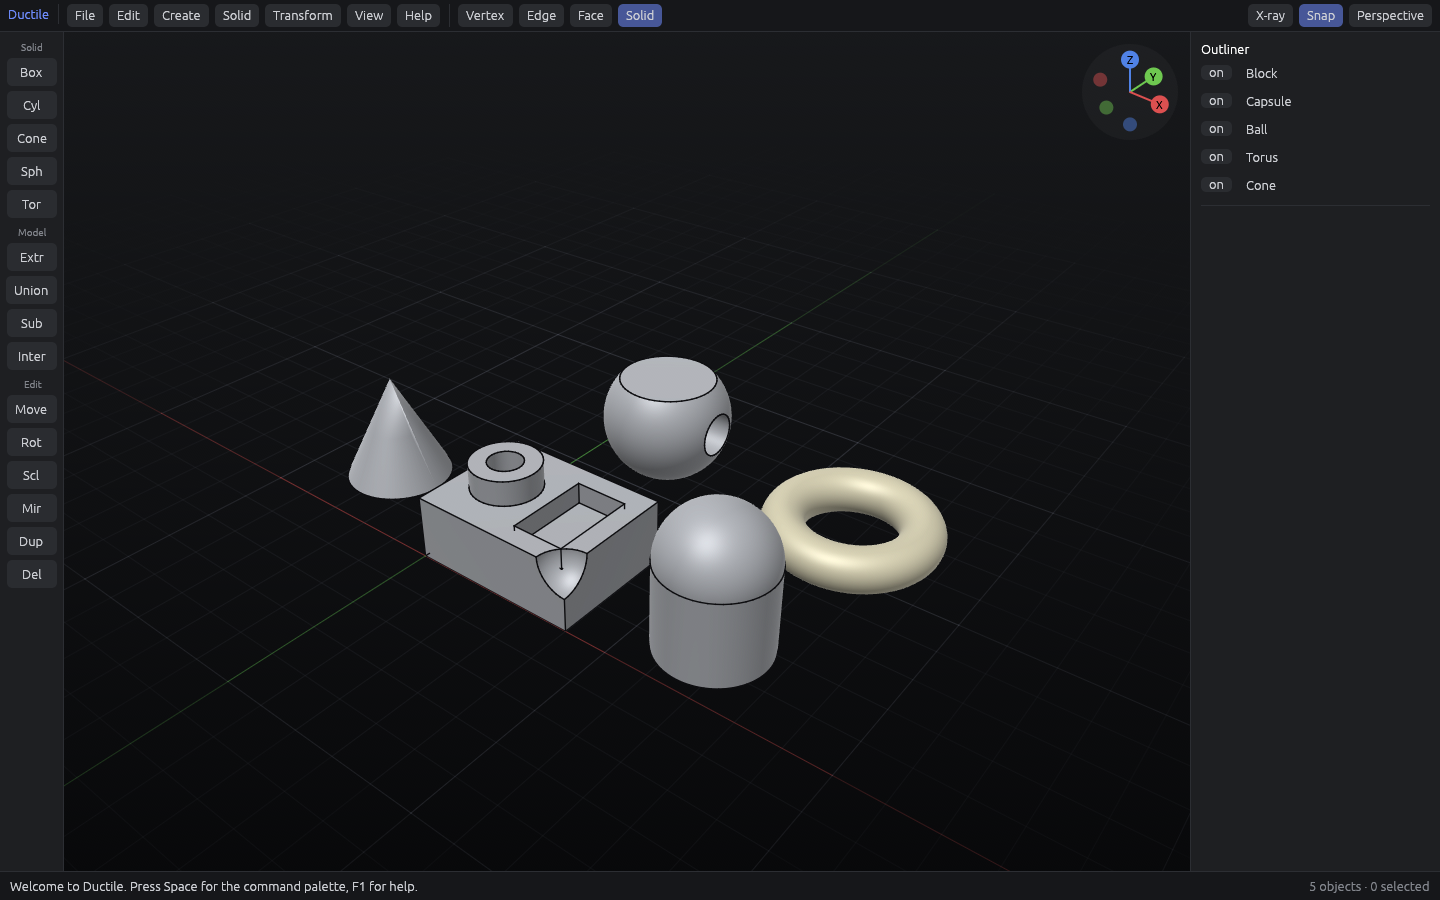
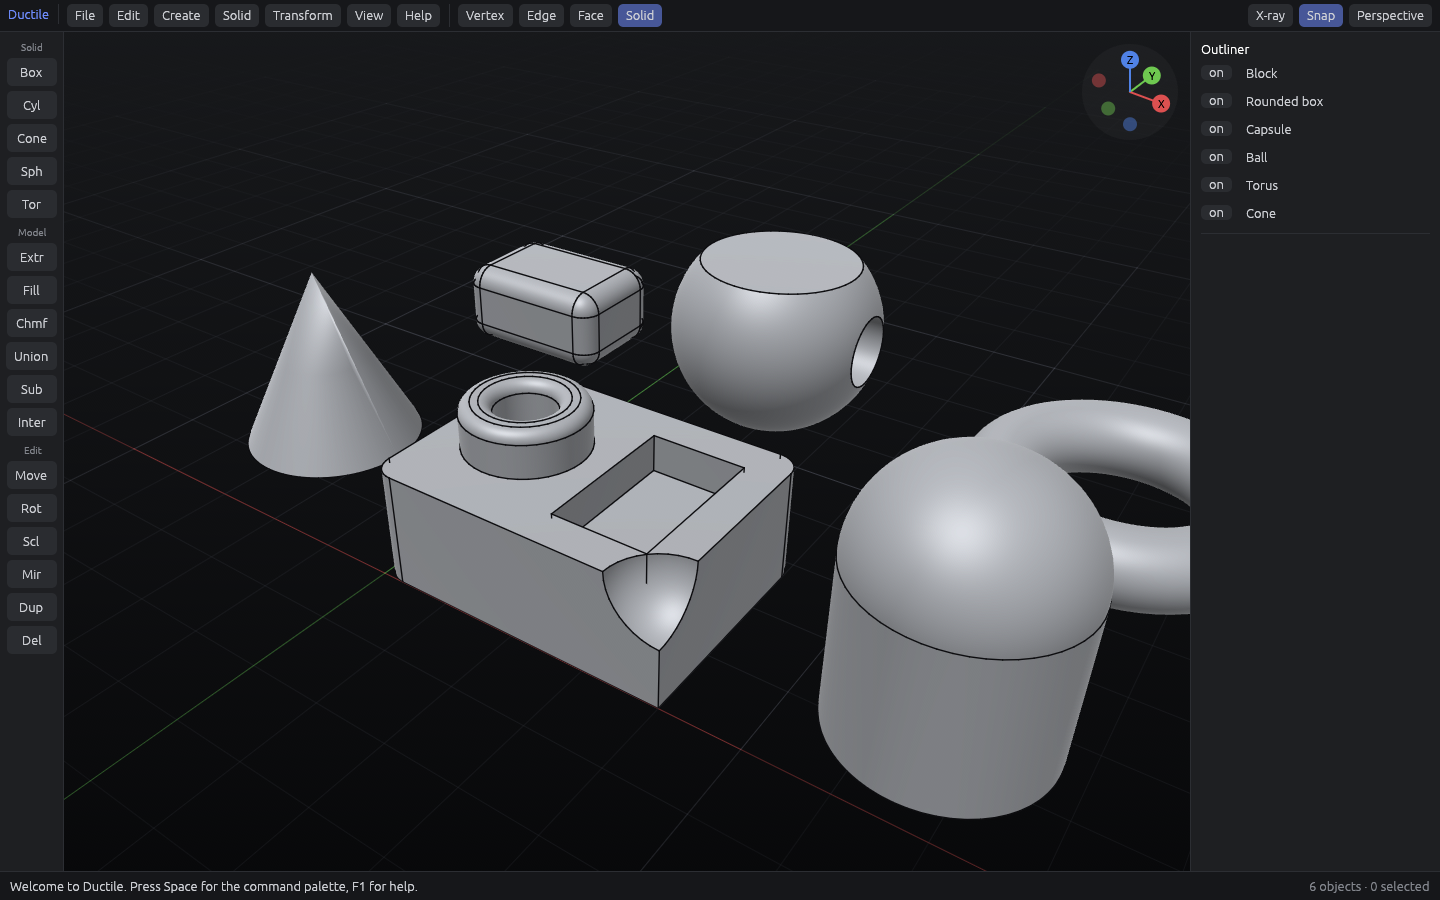
App: Fillet and Chamfer tools with live preview, filleted demo parts
Shift+F / Shift+K blend the selected edges; the radius is dragged along
the edge bisector or typed, with a chamfer toggle in the tool panel.

Claude-Session: https://claude.ai/code/session_01MWf4zCj6LESfmkzRN8DJjo

diff --git a/crates/ductile-app/src/commands.rs b/crates/ductile-app/src/commands.rs
@@ -3,7 +3,7 @@
 
 use crate::app::DuctileApp;
 use crate::document::{Document, Pick, SelectMode};
-use crate::tools::{BoxTool, ExtrudeTool, RoundKind, RoundTool, TransformKind, TransformTool};
+use crate::tools::{BoxTool, ExtrudeTool, FilletTool, RoundKind, RoundTool, TransformKind, TransformTool};
 use ductile_brep::ops::boolean::{boolean, BoolError, BoolOp};
 use ductile_brep::primitives::*;
 use ductile_geom::{DMat4, DVec3, Frame};
@@ -35,6 +35,8 @@ pub enum Command {
     Sphere,
     Torus,
     Extrude,
+    Fillet,
+    Chamfer,
     Union,
     Subtract,
     Intersect,
@@ -84,6 +86,8 @@ impl Command {
         Command::Sphere,
         Command::Torus,
         Command::Extrude,
+        Command::Fillet,
+        Command::Chamfer,
         Command::Union,
         Command::Subtract,
         Command::Intersect,
@@ -134,6 +138,8 @@ impl Command {
             Sphere => "Sphere",
             Torus => "Torus",
             Extrude => "Extrude / push-pull face",
+            Fillet => "Fillet edges",
+            Chamfer => "Chamfer edges",
             Union => "Boolean union",
             Subtract => "Boolean subtract",
             Intersect => "Boolean intersect",
@@ -183,6 +189,8 @@ impl Command {
             Sphere => "Shift+S",
             Torus => "Shift+T",
             Extrude => "E",
+            Fillet => "Shift+F",
+            Chamfer => "Shift+K",
             Union => "Shift+U",
             Subtract => "Shift+D",
             Intersect => "Shift+I",
@@ -230,6 +238,8 @@ pub fn shortcut(key: Key, m: Modifiers) -> Option<Command> {
         (Key::S, false, true, false) => Sphere,
         (Key::T, false, true, false) => Torus,
         (Key::E, false, false, false) => Extrude,
+        (Key::F, false, true, false) => Fillet,
+        (Key::K, false, true, false) => Chamfer,
         (Key::U, false, true, false) => Union,
         (Key::D, false, true, false) => Subtract,
         (Key::I, false, true, false) => Intersect,
@@ -369,6 +379,10 @@ pub fn run(app: &mut DuctileApp, cmd: Command) {
         Extrude => match ExtrudeTool::new(&app.doc) {
             Some(t) => app.start_tool(std::boxed::Box::new(t)),
             None => app.status = "Select a planar face to extrude (face mode: 3)".into(),
+        },
+        Fillet | Chamfer => match FilletTool::new(&app.doc, cmd == Chamfer) {
+            Some(t) => app.start_tool(std::boxed::Box::new(t)),
+            None => app.status = "Select edges to blend (edge mode: 2)".into(),
         },
         Union => boolean_selected(app, BoolOp::Union),
         Subtract => boolean_selected(app, BoolOp::Difference),
@@ -529,6 +543,7 @@ fn export_mesh(doc: &Document, path: &std::path::Path, stl: bool) -> Result<(), 
 
 /// A small scene used for screenshots and first launch demos.
 pub fn demo_scene(doc: &mut Document) {
+    use ductile_brep::ops::fillet::{blend_edges, Blend};
     let at = |x: f64, y: f64, z: f64| Frame { origin: DVec3::new(x, y, z), ..Frame::WORLD };
     let op = |a: ductile_brep::Body, b: ductile_brep::Body, o: BoolOp| boolean(&a, &b, o).unwrap_or(a);
     // A machined block: boss, through hole, flush pocket and a spherical notch.
@@ -537,7 +552,18 @@ pub fn demo_scene(doc: &mut Document) {
     part = op(part, make_cylinder(&at(2.2, 3.0, -1.0), 0.8, 6.0), BoolOp::Difference);
     part = op(part, make_box(&at(4.5, 1.0, 2.0), DVec3::new(2.5, 4.0, 1.0)), BoolOp::Difference);
     part = op(part, make_sphere(DVec3::new(8.0, 0.0, 3.0), 1.4), BoolOp::Difference);
+    // Round the boss rim and the block's vertical corners.
+    let pick = |b: &ductile_brep::Body, f: &dyn Fn(&ductile_brep::topo::Edge) -> bool| b.edge_ids().filter(|e| f(b.edge(*e))).collect::<Vec<_>>();
+    let rim = pick(&part, &|e| matches!(e.curve, ductile_geom::Curve3::Circle { .. }) && e.start().z > 4.0);
+    part = blend_edges(&part, &rim, Blend::Fillet(0.3)).unwrap_or(part);
+    let verticals = pick(&part, &|e| e.curve.is_linear() && (e.start() - e.end()).normalize().z.abs() > 0.999 && [0.0, 8.0].contains(&e.start().x) && [0.0, 6.0].contains(&e.start().y) && e.start().distance(e.end()) > 2.9);
+    part = blend_edges(&part, &verticals, Blend::Fillet(0.6)).unwrap_or(part);
     doc.add_body("Block", part);
+    // A fully rounded box.
+    let all = |b: &ductile_brep::Body| b.edge_ids().collect::<Vec<_>>();
+    let rb = make_box(&at(-7.0, 11.0, 0.0), DVec3::new(5.0, 3.5, 2.5));
+    let rb = blend_edges(&rb, &all(&rb), Blend::Fillet(0.6)).unwrap_or(rb);
+    doc.add_body("Rounded box", rb);
     // Capsule end: cylinder with a hemispherical cap.
     let cap = op(make_cylinder(&at(13.0, 3.0, 0.0), 2.5, 4.0), make_sphere(DVec3::new(13.0, 3.0, 4.0), 2.5), BoolOp::Union);
     doc.add_body("Capsule", cap);

diff --git a/crates/ductile-app/src/tools.rs b/crates/ductile-app/src/tools.rs
@@ -742,3 +742,127 @@ impl Tool for ExtrudeTool {
         true
     }
 }
+
+/// Fillet or chamfer of the selected edges of one solid, with the radius
+/// dragged along the edge's bisector.
+pub struct FilletTool {
+    target: ObjectId,
+    body: std::sync::Arc<Body>,
+    edges: Vec<ductile_brep::EdgeId>,
+    base: DVec3,
+    dir: DVec3,
+    start_t: Option<f64>,
+    pub radius: f64,
+    pub chamfer: bool,
+    typed: Option<f64>,
+    cache: std::cell::RefCell<Option<(f64, bool, Option<Body>, Option<String>)>>,
+}
+
+impl FilletTool {
+    /// Starts on the selected edges of the first object that has any.
+    pub fn new(doc: &Document, chamfer: bool) -> Option<Self> {
+        let sel = doc.selected_edges();
+        let target = sel.first()?.0;
+        let edges: Vec<_> = sel.iter().filter(|(o, _)| *o == target).map(|(_, e)| *e).collect();
+        let o = doc.object(target)?;
+        let b = &o.body;
+        let ed = b.edge(edges[0]);
+        let base = ed.mid();
+        // Drag handle: into the material, between the two faces.
+        let n: DVec3 = b
+            .edge_faces(edges[0])
+            .iter()
+            .map(|(f, _)| {
+                let uv = b.face(*f).surface.project(base, None);
+                b.face_normal(*f, uv.x, uv.y)
+            })
+            .sum();
+        let dir = (-n).try_normalize().unwrap_or(DVec3::Z);
+        Some(Self { target, body: o.body.clone(), edges, base, dir, start_t: None, radius: 0.0, chamfer, typed: None, cache: std::cell::RefCell::new(None) })
+    }
+
+    fn value(&self) -> f64 {
+        self.typed.unwrap_or(self.radius)
+    }
+
+    fn result(&self) -> (Option<Body>, Option<String>) {
+        use ductile_brep::ops::fillet::{blend_edges, Blend};
+        let r = self.value();
+        if let Some((cr, cc, b, e)) = &*self.cache.borrow() {
+            if *cr == r && *cc == self.chamfer {
+                return (b.clone(), e.clone());
+            }
+        }
+        let out = if r <= 1e-9 {
+            (None, None)
+        } else {
+            let blend = if self.chamfer { Blend::Chamfer(r) } else { Blend::Fillet(r) };
+            match blend_edges(&self.body, &self.edges, blend) {
+                Ok(b) => (Some(b), None),
+                Err(e) => (None, Some(e.to_string())),
+            }
+        };
+        *self.cache.borrow_mut() = Some((r, self.chamfer, out.0.clone(), out.1.clone()));
+        out
+    }
+}
+
+impl Tool for FilletTool {
+    fn name(&self) -> &'static str {
+        if self.chamfer {
+            "Chamfer"
+        } else {
+            "Fillet"
+        }
+    }
+    fn hint(&self) -> String {
+        match self.cache.borrow().as_ref().and_then(|c| c.3.clone()) {
+            Some(e) => format!("{} failed: {e}", self.name()),
+            None => format!("{}: drag or type a {} ({:.4}), click or Enter to finish", self.name(), if self.chamfer { "distance" } else { "radius" }, self.value()),
+        }
+    }
+    fn pointer(&mut self, _doc: &Document, _cplane: &CPlane, p: &PointerInfo) -> ToolOutcome {
+        let t = height_from_ray(self.base, self.dir, &p.ray);
+        let t0 = *self.start_t.get_or_insert(t);
+        if self.typed.is_none() {
+            self.radius = snap_len((t - t0).max(0.0), p.world_per_px);
+        }
+        if p.clicked {
+            return ToolOutcome::Finished;
+        }
+        ToolOutcome::Continue
+    }
+    fn preview(&self, _doc: &Document) -> Option<Body> {
+        self.result().0
+    }
+    fn guides(&self, out: &mut Vec<LineInstance>) {
+        let tip = self.base + self.dir * self.value();
+        out.push(LineInstance::new(self.base, tip, [1.0, 0.85, 0.3, 1.0], 2.0));
+        out.push(LineInstance::point(tip, [1.0, 0.85, 0.3, 1.0], 7.0));
+    }
+    fn panel(&mut self, ui: &mut egui::Ui) -> bool {
+        let mut r = self.value();
+        let mut ch = drag_value(ui, if self.chamfer { "Distance" } else { "Radius" }, &mut r, 0.01);
+        if ch {
+            self.typed = Some(r.max(0.0));
+        }
+        ch |= ui.checkbox(&mut self.chamfer, "Chamfer").changed();
+        ch
+    }
+    fn hidden_objects(&self) -> Vec<ObjectId> {
+        if self.result().0.is_some() {
+            vec![self.target]
+        } else {
+            vec![]
+        }
+    }
+    fn typed_value(&mut self, v: Option<f64>) {
+        self.typed = v.map(|x| x.abs());
+    }
+    fn commit(&mut self, doc: &mut Document) -> bool {
+        let Some(b) = self.result().0 else { return false };
+        doc.replace_body(self.target, b);
+        doc.selection.clear();
+        true
+    }
+}

diff --git a/crates/ductile-app/src/ui.rs b/crates/ductile-app/src/ui.rs
@@ -40,7 +40,7 @@ pub fn top_bar(app: &mut DuctileApp, ui: &mut egui::Ui) {
                 }
             });
             ui.menu_button("Solid", |ui| {
-                for c in [Command::Extrude, Command::Union, Command::Subtract, Command::Intersect] {
+                for c in [Command::Extrude, Command::Fillet, Command::Chamfer, Command::Union, Command::Subtract, Command::Intersect] {
                     menu_item(app, ui, c);
                 }
             });
@@ -137,6 +137,8 @@ pub fn toolbar(app: &mut DuctileApp, ui: &mut egui::Ui) {
             cmd_button(app, ui, Command::Torus, "Tor");
             section(ui, "Model");
             cmd_button(app, ui, Command::Extrude, "Extr");
+            cmd_button(app, ui, Command::Fillet, "Fill");
+            cmd_button(app, ui, Command::Chamfer, "Chmf");
             cmd_button(app, ui, Command::Union, "Union");
             cmd_button(app, ui, Command::Subtract, "Sub");
             cmd_button(app, ui, Command::Intersect, "Inter");

diff --git a/crates/ductile-brep/src/ops/fillet.rs b/crates/ductile-brep/src/ops/fillet.rs
@@ -429,4 +429,17 @@ mod tests {
         let expect = vol(&b) - area * 2.0 * PI * (1.0 + xbar);
         assert!((vol(&f) - expect).abs() < 2e-3, "{} vs {expect}", vol(&f));
     }
+
+    #[test]
+    fn rounded_box_all_edges() {
+        let b = make_box(&Frame::WORLD, DVec3::new(4.0, 3.0, 2.0));
+        let all: Vec<EdgeId> = b.edge_ids().collect();
+        let r = 0.4;
+        let f = blend_edges(&b, &all, Blend::Fillet(r)).unwrap();
+        assert_eq!(open_edges(&f), 0);
+        // Minkowski sum of the inner box with a ball of radius r.
+        let (a, c, d) = (4.0 - 2.0 * r, 3.0 - 2.0 * r, 2.0 - 2.0 * r);
+        let expect = a * c * d + 2.0 * r * (a * c + c * d + a * d) + PI * r * r * (a + c + d) + 4.0 / 3.0 * PI * r * r * r;
+        assert!((vol(&f) - expect).abs() < 5e-3, "{} vs {expect}", vol(&f));
+    }
 }

diff --git a/README.md b/README.md
@@ -12,6 +12,21 @@ code from them.
 
 ![Ductile screenshot](docs/screenshot.png)
 
+## What works today
+
+- Primitives: box, cylinder, cone, sphere, torus (exact analytic surfaces).
+- Exact booleans: union, subtract, intersect (Shift+U / Shift+D / Shift+I),
+  including coplanar, tangent and pole cases.
+- Push/pull extrusion of planar faces (E) with live preview.
+- Fillets (Shift+F) and chamfers (Shift+K) on edges between planes, on
+  circular plane/cylinder edges (boss and hole rims), with spherical corner
+  patches where three filleted edges meet.
+- Full revolution of line/arc profiles into exact surfaces (kernel).
+- Move / rotate / scale / mirror, undo/redo, STL and OBJ export.
+
+In progress: sketching and curves, partial revolve, sweep and loft, general
+rolling-ball NURBS fillets, STEP import/export.
+
 ## Layout
 
 | Crate | What it is |
